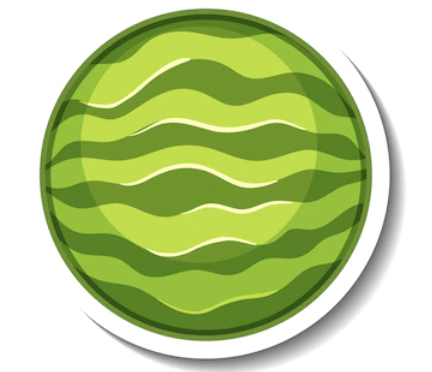
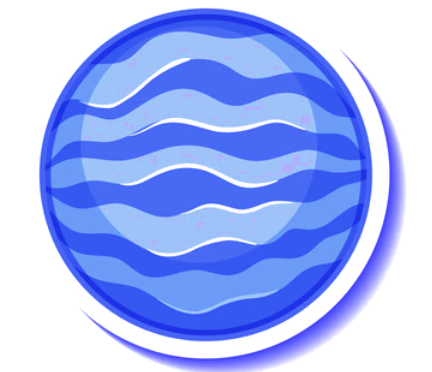
Adding proper pics for extra items

diff --git a/src/client/src/components/Shop/constants.js b/src/client/src/components/Shop/constants.js
@@ -10,85 +10,85 @@ export const shopItemsList = [
       id: 1,
       name: "Rice",
       price: 100,
-      // from https://www.flaticon.com/free-icons/corn
-      image: require("../../assets/CropIcons/corn.png"),
+      // from https://www.flaticon.com/free-icon/rice
+      image: require("../../assets/CropIcons/rice.png"),
     },
     {
       id: 2,
       name: "Carrot",
       price: 200,
-      // from https://www.freepik.com/free-vector/vegetable-icons-collection_948406.htm#query=corn%20icon&position=2&from_view=search&track=sph
-      image: require("../../assets/CropIcons/tomato.png"),
+      // from https://www.flaticon.com/free-icon/carrot
+      image: require("../../assets/CropIcons/carrot.png"),
     },
     {
       id: 3,
       name: "Orange",
       price: 150,
-      // from https://www.freepik.com/free-vector/vegetable-icons-collection_948406.htm#query=corn%20icon&position=2&from_view=search&track=sph
-      image: require("../../assets/CropIcons/eggplant.png"),
+      // from https://www.flaticon.com/free-icon/orange
+      image: require("../../assets/CropIcons/orange.png"),
     },
     {
       id: 4,
       name: "Lettuce",
       price: 150,
-      // from https://www.freepik.com/free-vector/vegetable-icons-collection_948406.htm#query=corn%20icon&position=2&from_view=search&track=sph
-      image: require("../../assets/CropIcons/cucumber.png"),
+      // from https://www.flaticon.com/free-icon/lettuce
+      image: require("../../assets/CropIcons/lettuce.png"),
     },
     {
       id: 5,
       name: "Tomato",
       price: 125,
-      // from https://www.freepik.com/premium-vector/orange-pumpkin-vector-illustration-fall-season-symbol-thick-black-outline-single-object-hello-autumn_30810460.htm#query=pumpkin%20icon&position=16&from_view=search&track=sph
-      image: require("../../assets/CropIcons/pumpkin.png"),
+      // from https://www.flaticon.com/free-icon/tomato
+      image: require("../../assets/CropIcons/tomato.png"),
     },
     {
       id: 6,
       name: "Watermelon",
       price: 175,
-      // from https://www.freepik.com/free-vector/vegetable-icons-collection_948406.htm#query=corn%20icon&position=2&from_view=search&track=sph
-      image: require("../../assets/CropIcons/carrot.png"),
+      // from https://www.flaticon.com/free-icon/watermelon
+      image: require("../../assets/CropIcons/watermelon.png"),
     },
     {
       id: 7,
       name: "Wheat",
       price: 175,
-      // from https://www.freepik.com/free-vector/isolated-watermelon-cartoon-style_22725431.htm#query=watermelon%20icon&position=3&from_view=search&track=sph
-      image: require("../../assets/CropIcons/wintermelon.png"),
+      // from https://www.flaticon.com/free-icon/wheat
+      image: require("../../assets/CropIcons/wheat.png"),
     },
     {
       id: 8,
       name: "Pumpkin",
       price: 175,
-      // from https://www.flaticon.com/free-icons/potato
-      image: require("../../assets/CropIcons/wheat.png"),
+      // from https://www.flaticon.com/free-icons/pumpkin
+      image: require("../../assets/CropIcons/pumpkin.png"),
     },
     {
       id: 9,
       name: "Beet",
       price: 175,
-      // from https://www.flaticon.com/free-icons/potato
-      image: require("../../assets/CropIcons/wheat.png"),
+      // from https://www.flaticon.com/free-icons/beet
+      image: require("../../assets/CropIcons/beet.png"),
     },
     // Winter
     {
       id: 10,
       name: "Berries",
       price: 175,
-      // from https://www.flaticon.com/free-icons/potato
-      image: require("../../assets/CropIcons/wheat.png"),
+      // from https://www.flaticon.com/free-icons/berries
+      image: require("../../assets/CropIcons/berries.png"),
     },
     {
       id: 11,
       name: "Mushroom",
       price: 175,
-      // from https://www.flaticon.com/free-icons/potato
-      image: require("../../assets/CropIcons/wheat.png"),
+      // from https://www.flaticon.com/free-icons/mushroom
+      image: require("../../assets/CropIcons/mushrooms.png"),
     },
     {
       id: 12,
       name: "Wintermelon",
       price: 175,
-      // from https://www.flaticon.com/free-icons/potato
-      image: require("../../assets/CropIcons/wheat.png"),
+      // modified the watermelon pic
+      image: require("../../assets/CropIcons/wintermelon.png"),
     },
   ];
